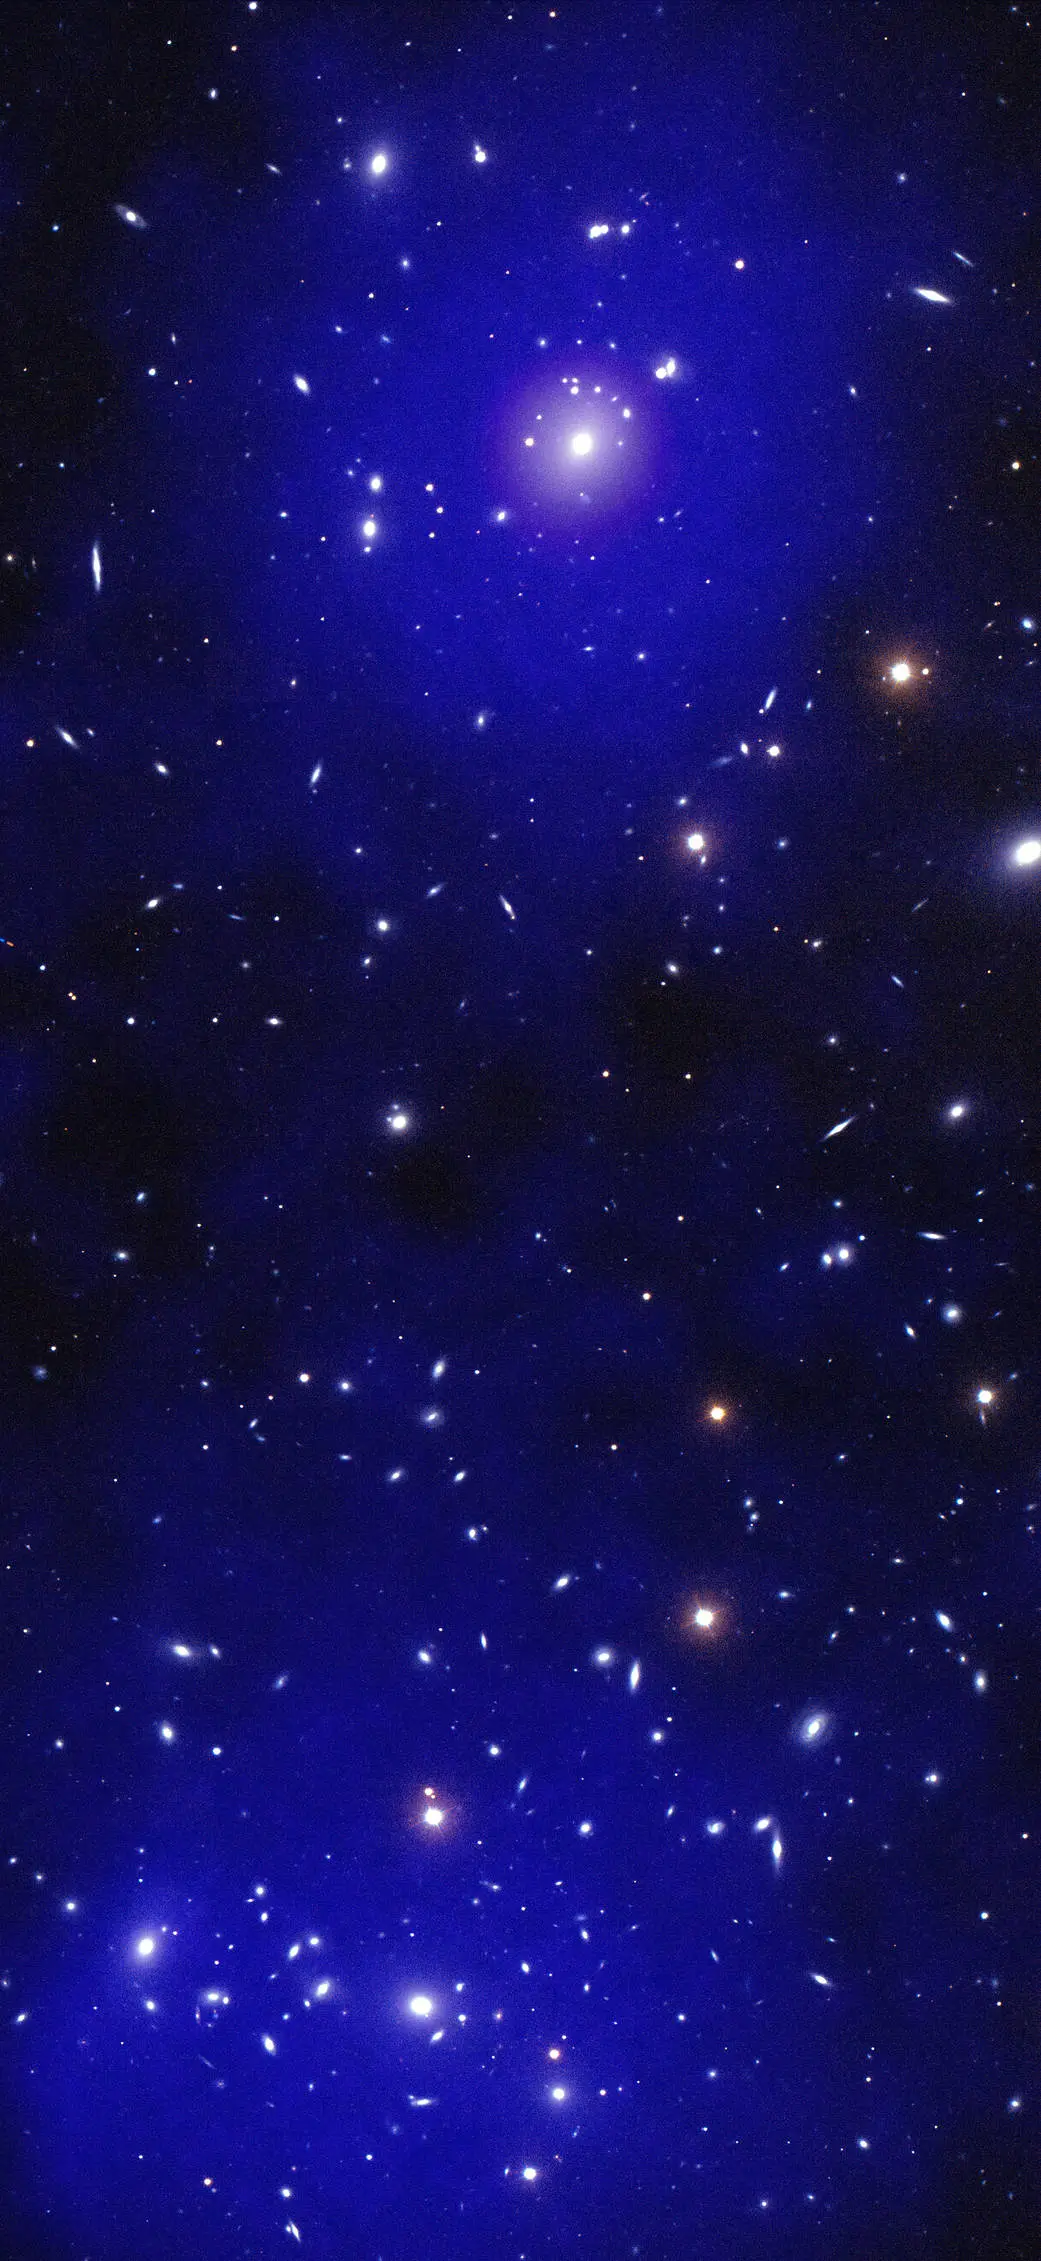
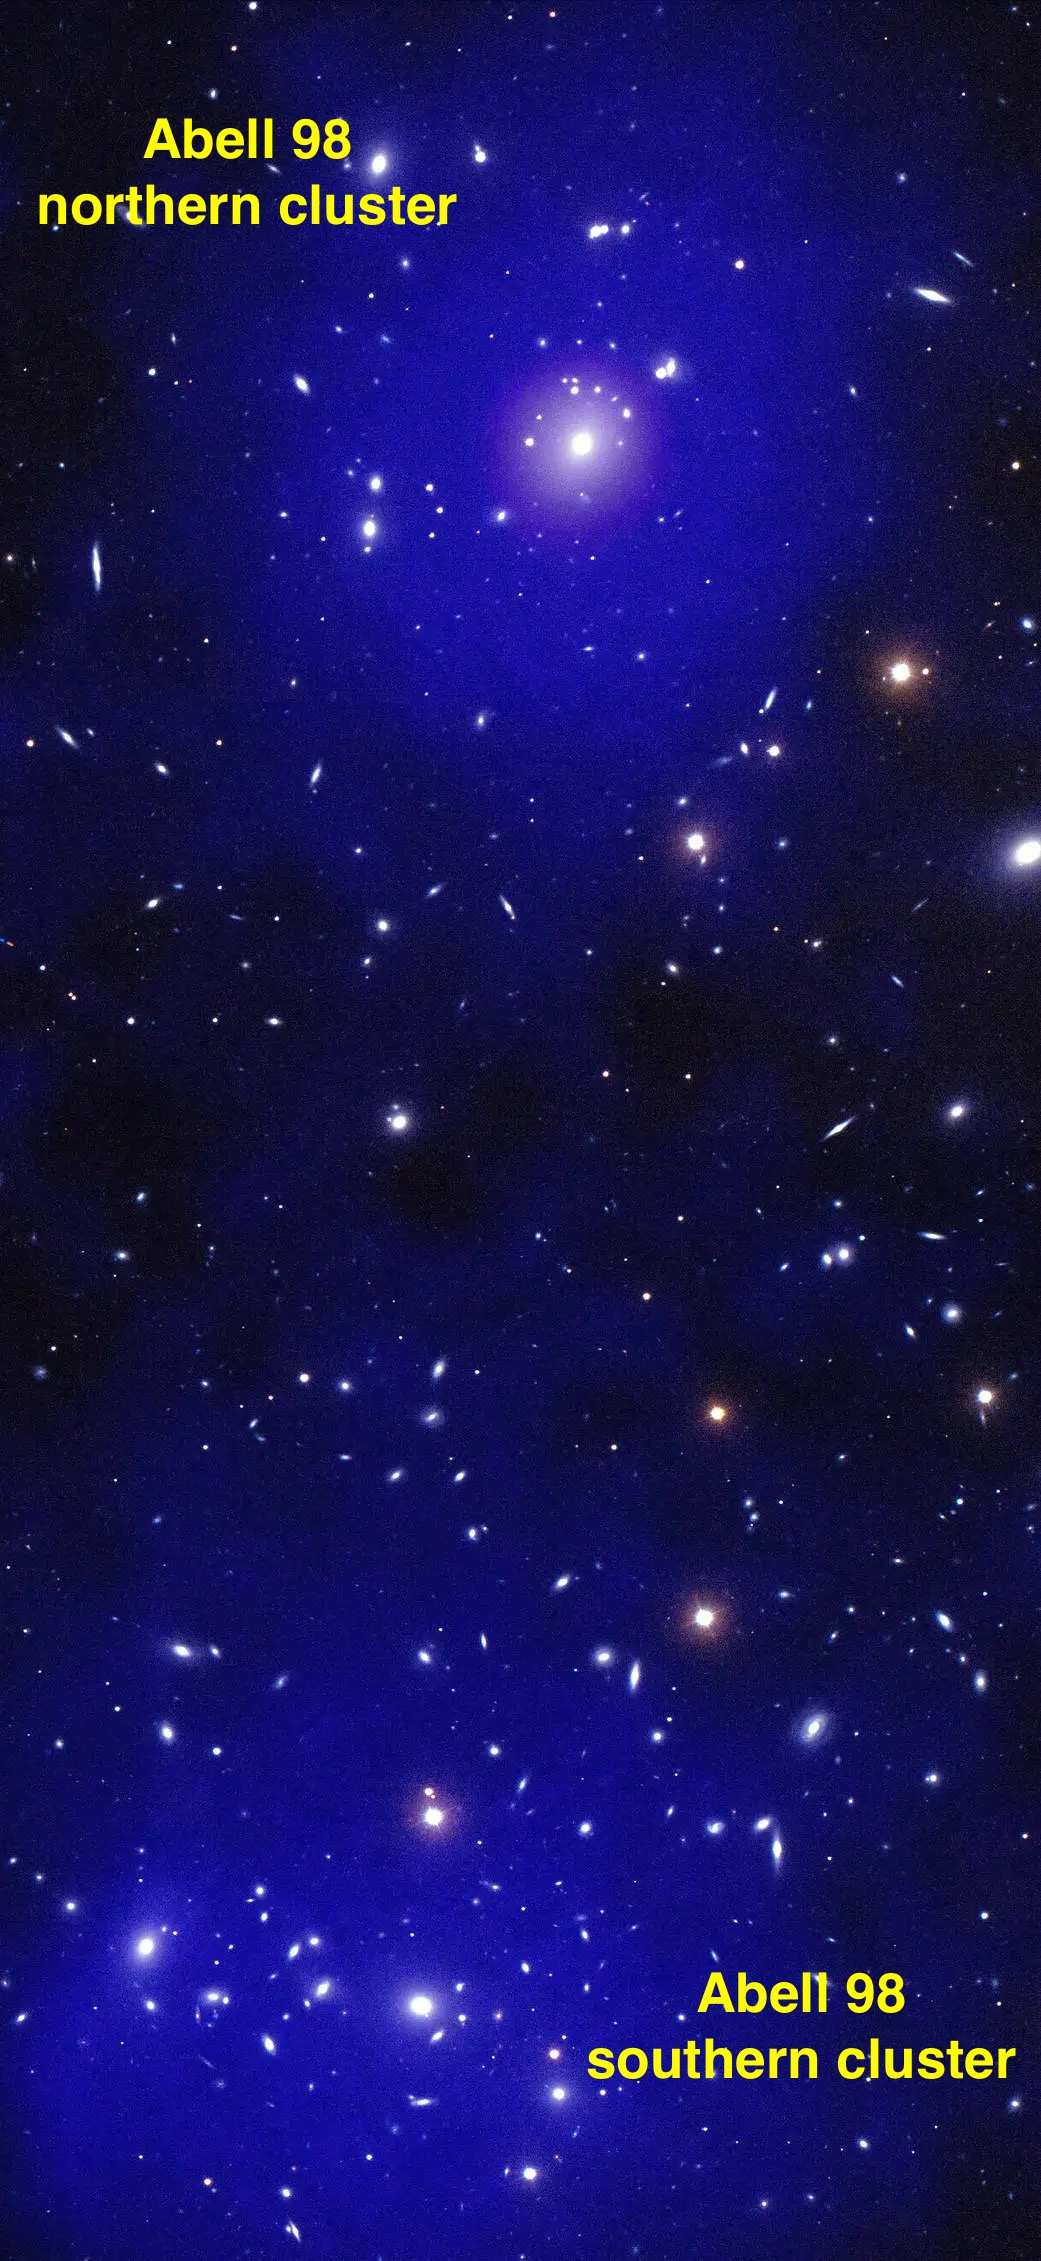
updates

Changed region(s): [[0.0307, 0.031, 0.4304, 0.1238], [0.5533, 0.8669, 0.9837, 0.9288]]

diff --git a/early_galaxies.html b/early_galaxies.html
@@ -33,10 +33,20 @@
 				<!-- Main -->
 					<section id="main" class="wrapper">
 						<div class="inner">
-							<h1 class="major">Early Galaxies</h1>
-							<span class="image fit"><img src="images/pic04.jpg" alt="" /></span>
-							<p>Donec eget ex magna. Interdum et malesuada fames ac ante ipsum primis in faucibus. Pellentesque venenatis dolor imperdiet dolor mattis sagittis. Praesent rutrum sem diam, vitae egestas enim auctor sit amet. Pellentesque leo mauris, consectetur id ipsum sit amet, fergiat. Pellentesque in mi eu massa lacinia malesuada et a elit. Donec urna ex, lacinia in purus ac, pretium pulvinar mauris. Curabitur sapien risus, commodo eget turpis at, elementum convallis elit. Pellentesque enim turpis, hendrerit tristique.</p>
-							<p>Interdum et malesuada fames ac ante ipsum primis in faucibus. Pellentesque venenatis dolor imperdiet dolor mattis sagittis. Praesent rutrum sem diam, vitae egestas enim auctor sit amet. Pellentesque leo mauris, consectetur id ipsum sit amet, fersapien risus, commodo eget turpis at, elementum convallis elit. Pellentesque enim turpis, hendrerit tristique lorem ipsum dolor.</p>
+							<h2 class="major">How galaxies grow and evolve over cosmic time?</h1>
+							<p><font color="#D8D8D8">
+								Early galaxies, formed just a few hundred million years after the Big Bang, are the universe's foundational building blocks. Bursting with intense star formation, these galaxies offer a rare glimpse into the cosmos' infancy. Studying early galaxies helps us understand how the first stars, black holes, and cosmic structures emerged from the primordial universe, ultimately shaping the universe as we see today. By unraveling their mysteries, we can trace the evolution of galaxies over billions of years and uncover the origins of elements and conditions essential for life. Observing their ancient light brings us closer to understanding the very dawn of our cosmic story.
+							</font>
+							</p>
+							<span class="image left"><img src="images/z_vs_metal.png" alt="" /><font style="font-size:14px;">Fig 1: Redshift evolution of gas-phase metallicity for 263 galaxies from the CEERS and JADES JWST surveys (<a href="https://ui.adsabs.harvard.edu/abs/2024arXiv240807974S/abstract" target="_blank"><font color="#FFEA00">Sarkar et al. 2024</font></a>), showing a clear decline in metallicity with increasing redshift.</font></span>
+							<p><font color="#D8D8D8">The central focus of my research is to get a clear picture of how and when the elements essential for cosmic structures and life first formed and dispersed across the Universe. For the first time, the James Webb Space Telescope is allowing us to peer into the era when galaxies were just beginning to take shape. With its exceptional capabilities, JWST is delivering an unparalleled treasure trove of early galaxies, leading to transformative discoveries about our cosmic origins. In a recent study (Sarkar et al. 2024), we investigated 81 early galaxies in the redshift range 4 < z < 10. Our findings reveal a remarkable and previously unseen decline in gas-phase oxygen abundances as we journey back in time toward the Universe’s infancy. The driving force behind this trend remains largely unknown, sparking further exploration into the processes that shaped the early cosmos.
+							</font>
+							 </p>
+							<span class="image right"><img src="images/early_galaxy.png" alt="" /><font style="font-size:14px;">Fig 2: Artistic impression of gas inflow and outflow in a galaxy. Credit: Tsinghua University</font></span>
+							<p><font color="#D8D8D8">
+								Hydrodynamical simulations, such as IllustrisTNG, reveal that early galaxies contain significantly more interstellar gas than stellar mass, reflecting their nascent stages of formation. This increased amount of interstellar gas, fueled by pristine gas inflows, may act as a cosmic mixer, diluting the metal-enriched gas within the interstellar medium (ISM) and reducing the overall metallicity.  
+							</font>
+							</p>
 						</div>
 					</section>
 

diff --git a/galaxy_cluster.html b/galaxy_cluster.html
@@ -33,10 +33,28 @@
 				<!-- Main -->
 					<section id="main" class="wrapper">
 						<div class="inner">
-							<h1 class="major">Clusters of Galaxies</h1>
-							<span class="image fit"><img src="images/pic04.jpg" alt="" /></span>
-							<p>Donec eget ex magna. Interdum et malesuada fames ac ante ipsum primis in faucibus. Pellentesque venenatis dolor imperdiet dolor mattis sagittis. Praesent rutrum sem diam, vitae egestas enim auctor sit amet. Pellentesque leo mauris, consectetur id ipsum sit amet, fergiat. Pellentesque in mi eu massa lacinia malesuada et a elit. Donec urna ex, lacinia in purus ac, pretium pulvinar mauris. Curabitur sapien risus, commodo eget turpis at, elementum convallis elit. Pellentesque enim turpis, hendrerit tristique.</p>
-							<p>Interdum et malesuada fames ac ante ipsum primis in faucibus. Pellentesque venenatis dolor imperdiet dolor mattis sagittis. Praesent rutrum sem diam, vitae egestas enim auctor sit amet. Pellentesque leo mauris, consectetur id ipsum sit amet, fersapien risus, commodo eget turpis at, elementum convallis elit. Pellentesque enim turpis, hendrerit tristique lorem ipsum dolor.</p>
+							<h2 class="major">Clusters of Galaxies: Large-Scale structures of Universe</h1>
+							<p><font color="#D8D8D8">
+								Clusters of galaxies or galaxy clusters, as their name says, hundreds to thousands of galaxies are bound to together by the gravity, making one of the largest gravitationally bound systems in our Universe. Because of their intense gravitation, the baryonic gas trapped inside galaxy clusters or intra-cluster medium is heated to ten to hunderd million degrees kelvin (~ 10^7-10^8 K). Due to this intense heat, intra-cluster medium shines brightly in X-ray. This X-ray radiation from galaxy clusters can not penetrate through earth atmosphere so we need space-based X-ray telescope to observed galaxy clusters.
+							</font>
+							</p>
+							<span class="image left"><img src="images/a98.jpg" alt="" /><font style="font-size:14px;">Fig 2: Abell 98, a system of galaxy clusters including a pair in the early stages of a collision (<a href="https://ui.adsabs.harvard.edu/abs/2024arXiv240807974S/abstract" target="_blank"><font color="#FFEA00">Sarkar et al. 2022</font></a>). Hot plasma was observed using Chandra X-ray observatory as shown in blue and purple overlaid optical observations of galaxies from the WIYN telescope appearing white and red. Credits: X-ray:NASA/CXC/CfA/A. Sarkar; Optical: NSF/NOIRLab/WIYN.</font></span>
+							<p><font color="#D8D8D8">My primary focus is to understand how this gigantic structures form and evolve across the Universe. According to the \lambdaCDM cosmology, galaxy clusters evolve by merging with other clusters along the cosmic filament, which are among the most energetic events since Big Bang. I study how these merging processes shape the dynamics and properties of the intra-cluster medium using observations from Chandra, XMM-Newton in X-ray, VLA, GMRT in radio and South Pole telescope in sub-mm. In Sarkar et al. 2022, we report the discovery of a axial-shock in a pre-merging galaxy cluster, Abell 98. 
+							</font>
+							 </p>
+							<span/></span>
+							<p><font color="#D8D8D8">
+								Hydrodynamical simulations, such as IllustrisTNG, reveal that early galaxies contain significantly more interstellar gas than stellar mass, reflecting their nascent stages of formation. This increased amount of interstellar gas, fueled by pristine gas inflows, may act as a cosmic mixer, diluting the metal-enriched gas within the interstellar medium (ISM) and reducing the overall metallicity.  
+							<br>
+							<br>
+							<br>
+							<br>
+							<br>
+							<br>
+							<br>
+							<br>
+							</font>
+							</p>
 						</div>
 					</section>
 

diff --git a/index.html b/index.html
@@ -105,7 +105,7 @@
 									<h3>Quasars and Broad Emission Line Regions</h3>
 									<p><font color="#D8D8D8">I study physical properties and dynamics of BLR gas using emission lines.</font></p>
 									<ul class="actions">
-										<li><a href="quasar.html" class="button"><font color="#FFEA00">Learn more</font></a></li>
+										<li><a href="" class="button"><font color="#FFEA00">Learn more</font></a></li>
 									</ul>
 								</div>
 							</div>
@@ -122,7 +122,7 @@
 									<h3>Clusters of Galaxies</h3>
 									<p><font color="#D8D8D8">I study growth and evolution of clusters of galaxies.</font></p>
 									<ul class="actions">
-										<li><a href="galaxy_cluster.html" class="button"><font color="#FFEA00">Learn more</font></a></li>
+										<li><a href="" class="button"><font color="#FFEA00">Learn more</font></a></li>
 									</ul>
 								</div>
 							</div>
